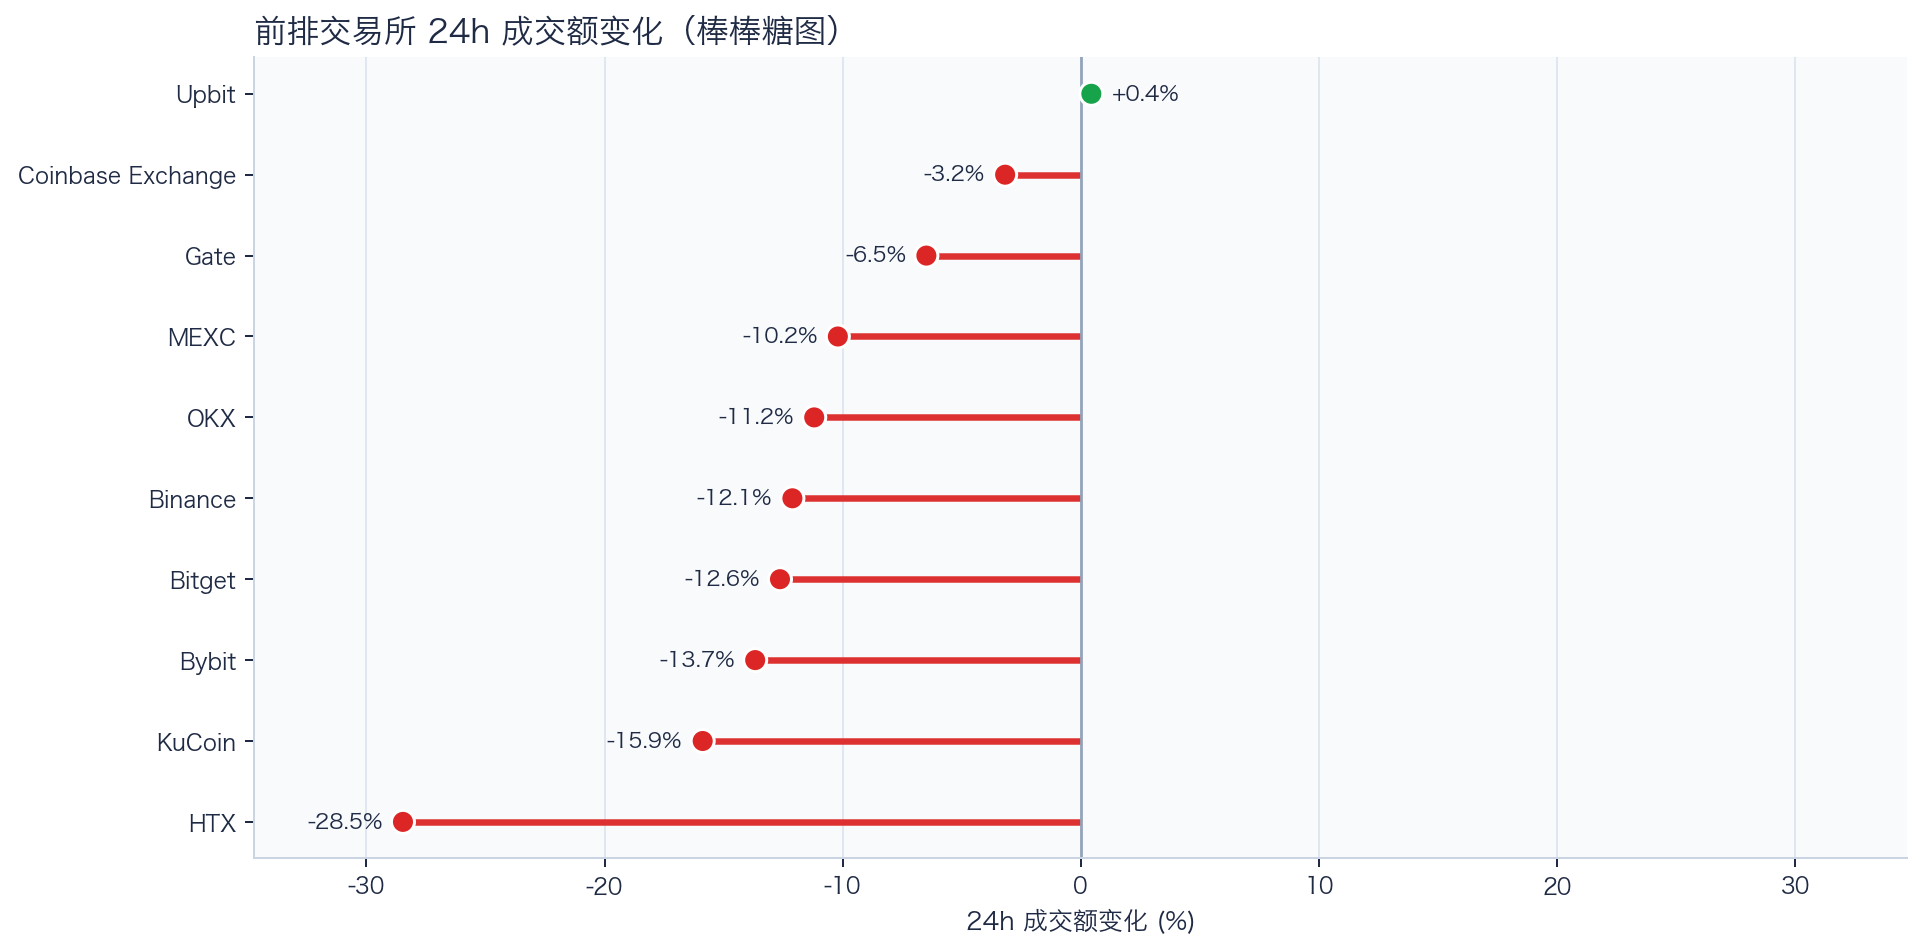
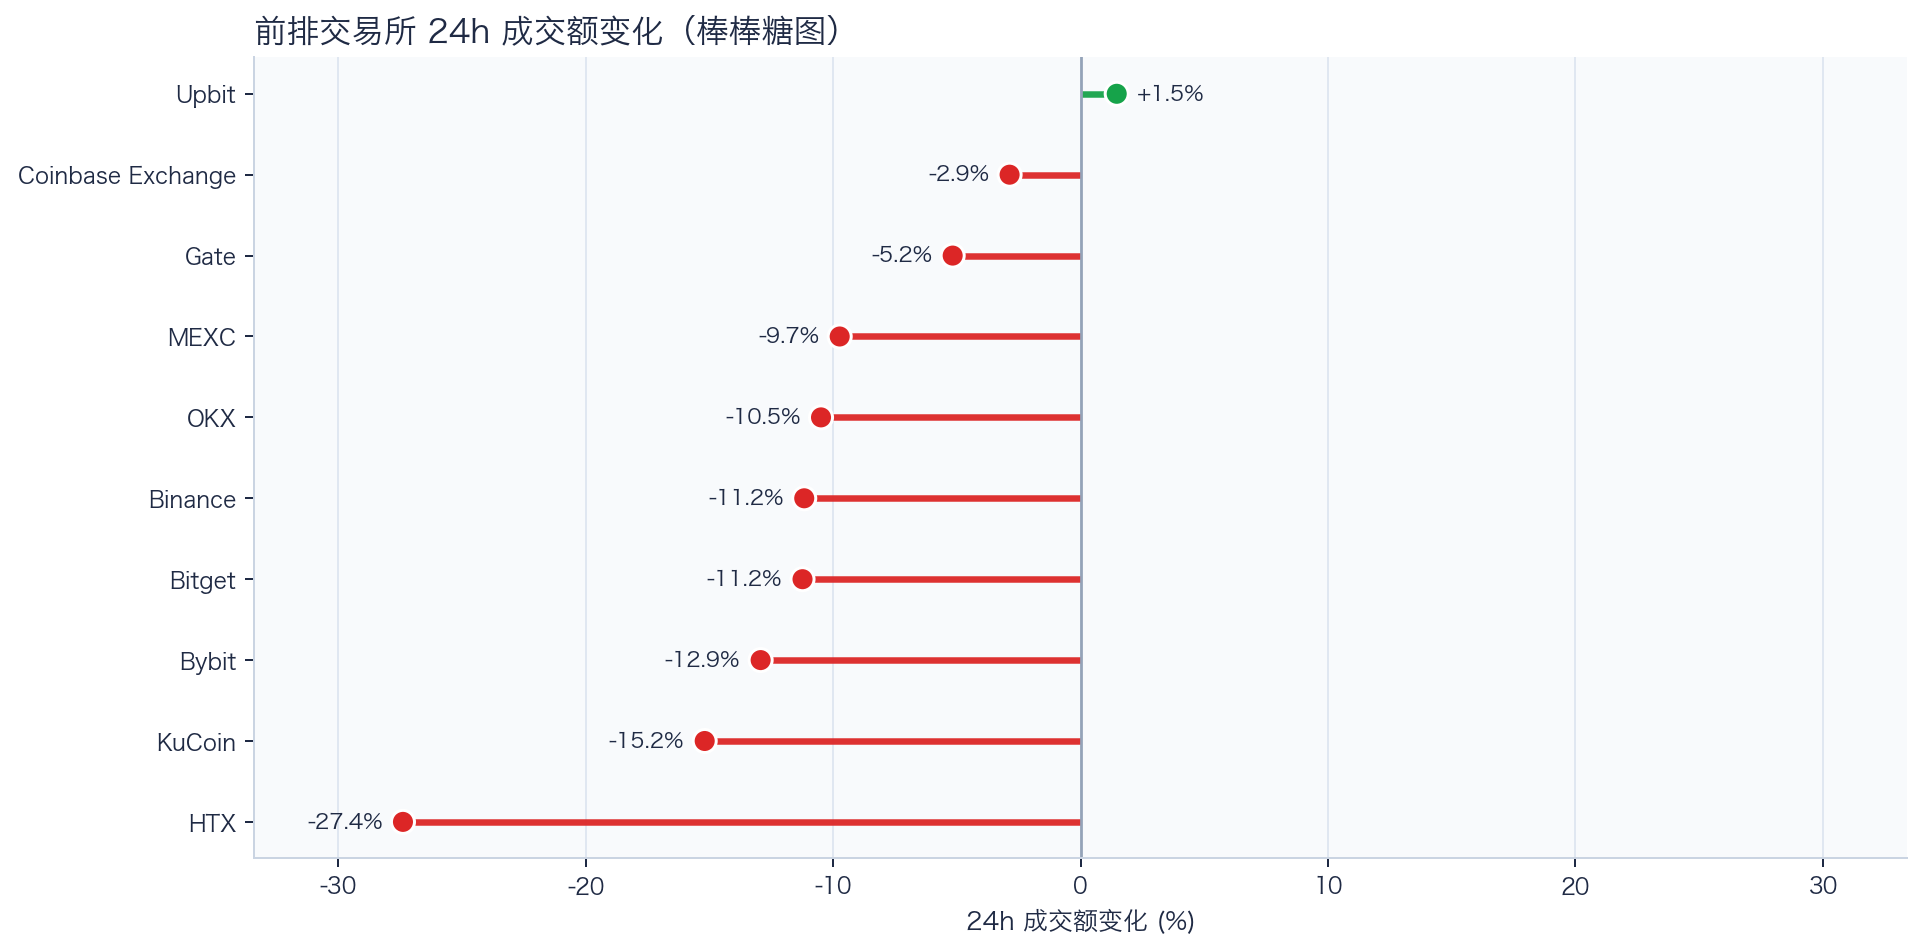
gitbook: add taoli-sourced borrow cost sample

diff --git a/gitbook/daily/2026-03-26/README.md b/gitbook/daily/2026-03-26/README.md
@@ -2,9 +2,9 @@
 
 ## 关键结论
 - 全市场市值 $2.44T（24h +0.99%），成交额 $87.68B（24h -8.35%）。
-- BTC 主导率 58.42%（+0.07pct），Top10 外占比 8.70%。
-- Top10 资产上涨 7 / 下跌 3，平均涨跌幅 +0.28%，首尾分化 3.14pct。
-- 衍生品：BTC/ETH 资金费率分别为 +0.07bps / +0.00bps，DVOL 收盘 51.03 / 73.40。
+- BTC 主导率 58.42%（+0.07pct），Top10 外占比 8.90%。
+- Top10 资产上涨 4 / 下跌 6，平均涨跌幅 +0.02%，首尾分化 3.02pct。
+- 衍生品：BTC/ETH 资金费率分别为 +0.08bps / +0.00bps，DVOL 收盘 51.05 / 73.51。
 
 ## 今日盘面判断
 如果只用一句话概括今天的市场，关键词是 `Range Trading`。价格与成交未形成同向趋势，市场仍在区间内进行结构轮动。广度仍偏窄，增量风险偏好尚未形成持续外溢。这意味着短线虽然有可交易的弹性，但要把它理解成新一轮趋势启动，证据还不够。
@@ -15,8 +15,8 @@
 ## BTC/ETH 24h 趋势判断
 ![BTC/ETH 24h价格路径](charts/chart_btc_eth_24h_trend.png)
 
-- BTC：$70,999.09（24h +0.57%，区间 $70,408.00 - $72,026.09，当前位于区间 37%）=> 区间震荡。
-- ETH：$2,156.21（24h +0.02%，区间 $2,147.00 - $2,199.02，当前位于区间 18%）=> 区间震荡。
+- BTC：$70,868.65（24h +0.23%，区间 $70,408.00 - $72,026.09，当前位于区间 28%）=> 区间震荡。
+- ETH：$2,149.27（24h -0.52%，区间 $2,144.05 - $2,199.02，当前位于区间 9%）=> 区间震荡。
 - 简评：BTC 与 ETH 出现分化，短线以结构性机会为主。
 
 ## 稳定币收益情况（链上协议）
@@ -25,12 +25,12 @@
 
 核心观察
 - 利率结构：Total APY 位于 0.00% 至 3.42% 区间。
-- 资金集中：TVL 主要集中在 Aave-USDT（Ethereum，TVL $1.56B）、Aave-USDC（Ethereum，TVL $905.52M）。
+- 资金集中：TVL 主要集中在 Aave-USDT（Ethereum，TVL $1.55B）、Aave-USDC（Ethereum，TVL $905.33M）。
 - 收益领先：当前收益靠前样本包括 Spark-USDT（Ethereum，Total 3.42%）、Compound-USDC（Ethereum，Total 2.58%）。
 
 风险提示
 - 利用率达到 70% 以上的池有 3 个，杠杆需求主要集中在头部池。
-- 利用率最高样本：Aave-USDC（Ethereum） 73.63%，Borrow APY 3.25%。
+- 利用率最高样本：Aave-USDC（Ethereum） 73.68%，Borrow APY 3.26%。
 - 奖励收益池数量：1 个。当前收益主体仍以原生利率为主。
 
 稳定币收益对比表
@@ -43,8 +43,6 @@
 | PYUSD | 2.07% (Ethereum) | 3.75% (Ethereum) | N/A | N/A | Spark-Ethereum 3.75% |
 | SUSDS | N/A | 0.00% (Ethereum) | N/A | 0.00% (Ethereum) | Spark-Ethereum 0.00% |
 
-外部看板： [Taoli](https://taoli.tools/) | [DefiLlama 稳定币收益](https://defillama.com/yields/stablecoins) | [Aave Markets](https://aave.com/docs/aave-v3/markets/data)
-
 交易含义：当前稳定币收益更偏“头部池中等收益 + 局部高利用率”结构，策略上优先流动性与透明度，再考虑收益增强。
 部分协议未公开借款侧与利用率口径，报告仅展示可验证数据。
 
@@ -53,8 +51,16 @@
 
 样本范围覆盖 Binance 与 OKX 的 BTC/ETH 现货与永续，用于观察 funding 与 basis 的当期结构。
 - Funding 最高样本：OKX-BTC，年化约 10.95%。
-- Funding 最低样本：Binance-BTC，年化约 -0.16%。
-- Basis 偏离最大：Binance-ETH，相对指数约 -0.04%。
+- Funding 最低样本：Binance-BTC，年化约 0.31%。
+- Basis 偏离最大：Binance-BTC，相对指数约 -0.04%。
+
+借币成本样本（Taoli 数据源）
+| 资产 | 日利率 | 年化 | 借币上限 |
+|---|---:|---:|---:|
+| USDT | 0.01% | 3.00% | 100,000 |
+| USDC | 0.01% | 3.00% | 100,000 |
+| BTC | 0.00% | 0.39% | 60 |
+| ETH | 0.01% | 2.32% | 400 |
 - 交易含义：当 funding 年化显著高于 basis 且持续为正，carry 交易更偏向收取 funding；若 basis 与 funding 同步回落，需降低杠杆并关注资金回流速度。
 该部分与链上收益分开统计，便于比较两类策略的收益与风险结构。
 
@@ -72,34 +78,34 @@
 ## 主导率与市场广度
 ![市场广度快照](charts/chart_market_breadth_snapshot.png)
 
-当前结构为 BTC 58.42% / Top2-10 32.87% / Top10 外 8.70%。长尾占比仍偏低，广度修复还未形成持续趋势。
+当前结构为 BTC 58.42% / Top2-10 32.67% / Top10 外 8.90%。长尾占比仍偏低，广度修复还未形成持续趋势。
 Top10 外占比处于低位，风险偏好仍主要停留在 BTC 与头部资产。换句话说，资金目前更愿意在高流动性的核心资产里做仓位调整，而不是大面积扩散到长尾资产。
 
 ## 资产与交易所资金流
 ![Top10资产24h表现](charts/chart_top10_assets_24h.png)
 
-Top10 中领涨 TRX（+2.21%），尾部 FIGR_HELOC（-0.92%），均值 +0.28%。分化 3.14pct，结构性交易仍是主导。
-上涨家数明显占优，但首尾分化仍大，表明反弹并非无差别普涨。对交易而言，这通常意味着“选币”比“全市场方向”更重要，错配带来的收益差会明显放大。
+Top10 中领涨 TRX（+2.10%），尾部 FIGR_HELOC（-0.92%），均值 +0.02%。分化 3.02pct，结构性交易仍是主导。
+涨跌家数接近均衡，市场处于结构轮动阶段，方向一致性较弱。对交易而言，这通常意味着“选币”比“全市场方向”更重要，错配带来的收益差会明显放大。
 
 ![前排交易所24h变化](charts/chart_exchange_24h_change.png)
 
-前排样本上涨 1 家、下跌 9 家，均值 -11.33%。Upbit 最强（+0.45%），HTX 最弱（-28.47%）。
-最强与最弱平台的 24h 变化差达到 28.91pct，说明流动性仍在选择性回流，头部平台的价格发现能力更强。当平台间流量分化明显时，报价连续性和滑点表现会同步分化，执行层面要更关注成交质量。
+前排样本上涨 1 家、下跌 9 家，均值 -10.48%。Upbit 最强（+1.46%），HTX 最弱（-27.39%）。
+最强与最弱平台的 24h 变化差达到 28.85pct，说明流动性仍在选择性回流，头部平台的价格发现能力更强。当平台间流量分化明显时，报价连续性和滑点表现会同步分化，执行层面要更关注成交质量。
 
 ![交易所现货衍生品结构](charts/chart_exchange_spot_deriv_structure.png)
 
-样本内衍生品成交占比 85.96%。若该占比继续走高且 funding 不同步回落，短线波动脉冲通常会增强。
+样本内衍生品成交占比 86.01%。若该占比继续走高且 funding 不同步回落，短线波动脉冲通常会增强。
 衍生品占比处于高位，行情更容易出现脉冲式放大，风控阈值建议偏保守。这也是为什么同样的消息面在当前阶段更容易被放大成大振幅走势。
 
 ## 衍生品与情绪
 ![衍生品快照](charts/chart_derivatives_snapshot.png)
 
-资金费率（Funding）仍在中性附近，BTC/ETH 分别 +0.07bps / +0.00bps；未平仓合约（OI）为 $963.42M / $284.62M；隐含波动率指数（DVOL）位于 Neutral（中性波动定价） / Panic（高波动溢价）。
+资金费率（Funding）仍在中性附近，BTC/ETH 分别 +0.08bps / +0.00bps；未平仓合约（OI）为 $962.54M / $284.26M；隐含波动率指数（DVOL）位于 Neutral（中性波动定价） / Panic（高波动溢价）。
 资金费率接近中性，说明方向拥挤度有限；但 DVOL 仍偏高，市场对突发波动仍保留保险溢价。因此更合适的做法不是激进追单边，而是围绕波动管理仓位和节奏。
 
 ![情绪与波动当日快照](charts/chart_sentiment_snapshot.png)
 
-恐惧与贪婪指数（F&G）当日 10（较前日 -4）；配合 BTC/ETH DVOL 51.03/73.40，当前更像情绪修复中的高波动区。
+恐惧与贪婪指数（F&G）当日 10（较前日 -4）；配合 BTC/ETH DVOL 51.05/73.51，当前更像情绪修复中的高波动区。
 情绪维持在恐惧区，反弹通常更依赖事件驱动，持续性需要成交确认。只有当情绪、广度和成交三者同时改善，市场才更可能从“反弹交易”切换到“趋势交易”。
 
 ## 未来24小时观察
